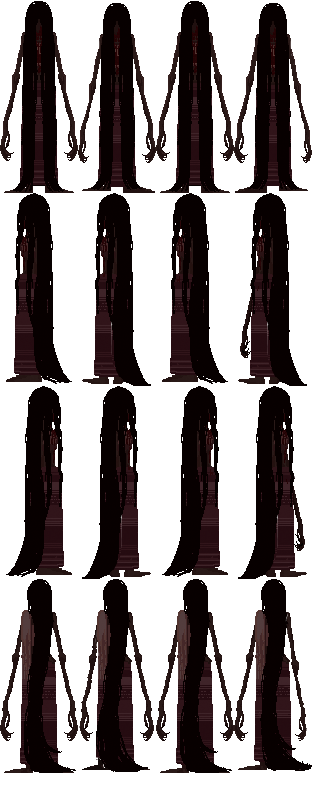
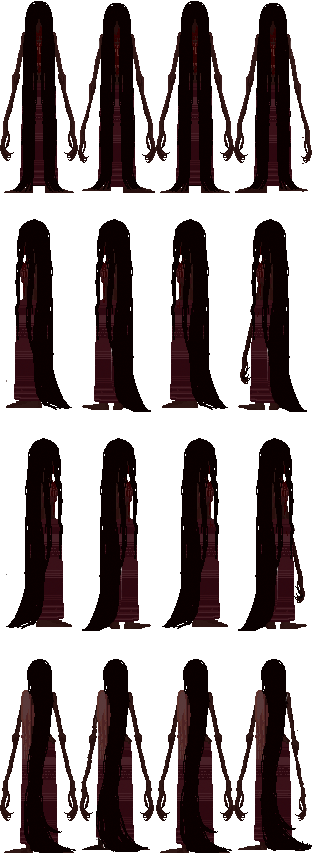
gameover sound effect and some fix

diff --git a/Themuseum/GamePlay.cs b/Themuseum/GamePlay.cs
@@ -64,7 +64,7 @@ namespace Themuseum
 
             roomManager.RoomFunction(_graphics, player, KeyManagement, elapsed, dialogue, light,map,soundSystem,ghost,staminabar);
 
-            player.Controls(Keystate, light,KeyManagement);
+            player.Controls(Keystate, light,KeyManagement,ghost,soundSystem);
             player.UpdateAnimation(elapsed);
             map.Behavior(roomManager);
             staminabar.UpdateBar(player.CurrentStamina, player.CurrentFuel, elapsed) ;
@@ -91,9 +91,12 @@ namespace Themuseum
                 ScreenEvent.Invoke(game.mGameoverScreen, new EventArgs());
 
                 Reset();
+                soundSystem.PlaySfx(7);
 
                 return;
             }
+
+
 
             if(Keyboard.GetState().IsKeyDown(Keys.K)== true)
             {
@@ -127,8 +130,9 @@ namespace Themuseum
 
         public void Reset()
         {
-            soundSystem.PlayBGM(0);
+            
             soundSystem.StopBGM();
+            soundSystem.PlayBGM(0);
             ghost.gameOver = false;
             ghost.Changestartingposition(new Vector2(10000, 10000));
             player.Reset();

diff --git a/Themuseum/GameOver.cs b/Themuseum/GameOver.cs
@@ -17,7 +17,7 @@ namespace Themuseum
         Ghost ghost;
         SpriteFont font;
         int counter = 120;
-        SoundSystem sound;
+        
        
         Game1 game; public GameOver(Game1 game,
          EventHandler theScreenEvent) : base(theScreenEvent)
@@ -26,13 +26,13 @@ namespace Themuseum
             font = game.Content.Load<SpriteFont>("Start");
             gameOver = game.Content.Load<Texture2D>("GameOver");
             player = new Player(Vector2.Zero);
-            sound = new SoundSystem();
             this.game = game;
+            
         }
         public override void Update(GameTime theTime)
         {
             counter--;
-            sound.PlayBGM(2);
+            
             if (Keyboard.GetState().IsKeyDown(Keys.R) == true)
             {
                 ScreenEvent.Invoke(game.mMainmenu, new EventArgs());

diff --git a/Themuseum/SoundSystem.cs b/Themuseum/SoundSystem.cs
@@ -32,12 +32,12 @@ namespace Themuseum
             soundEffects.Add(content.Load<SoundEffect>("147-Support05")); // Crystal Approve Sfx 4
             soundEffects.Add(content.Load<SoundEffect>("140-Darkness03")); // Crystal Denied sfx 5
             soundEffects.Add(content.Load<SoundEffect>("081-Monster03")); // Monster Sound 6
-            
-            
+            soundEffects.Add(content.Load<SoundEffect>("deathsfx_short")); //7
+
 
             BGM.Add(content.Load<Song>("Horror Thai ambi")); //0
             BGM.Add(content.Load<Song>("Ancient Horror")); //1
-            BGM.Add(content.Load<Song>("deathsfx_short")); //2
+            
             
         }
 

diff --git a/Themuseum/Ghost.cs b/Themuseum/Ghost.cs
@@ -91,6 +91,7 @@ namespace Themuseum
 
             if(collision.Intersects(player.collision) == true)
             {
+                
                 gameOver = true;
             }
            
@@ -156,7 +157,7 @@ namespace Themuseum
         }
         public void LoadSprite(ContentManager Content)
         {
-            Sprite.Load(Content, "ghost_anim", 4, 4, 4);
+            Sprite.Load(Content, "ghost_anim", 4, 4, 5);
         }    
     }
 }

diff --git a/Themuseum/Player.cs b/Themuseum/Player.cs
@@ -79,7 +79,7 @@ namespace Themuseum
             }
         }
 
-        public void Controls(KeyboardState Keystate, LanternLight Light, KeyManagement keyManagement)
+        public void Controls(KeyboardState Keystate, LanternLight Light, KeyManagement keyManagement, Ghost ghost, SoundSystem sound)
         {
             KeyControls = Keystate;
             collision = new Rectangle((int)SelfPosition.X, (int)SelfPosition.Y, 42, 84);

diff --git a/Themuseum/Room3.cs b/Themuseum/Room3.cs
@@ -254,7 +254,7 @@ namespace Themuseum
             if (Keymanager.MRB_StatueActive == true)
             {
                 
-                keyBPos = new Vector2(200, 400);
+                keyBPos = new Vector2(200, 300);
                 if(Keymanager.KeyCollectB == true)
                 {
                     keyBPos = new Vector2(500000, 300);
